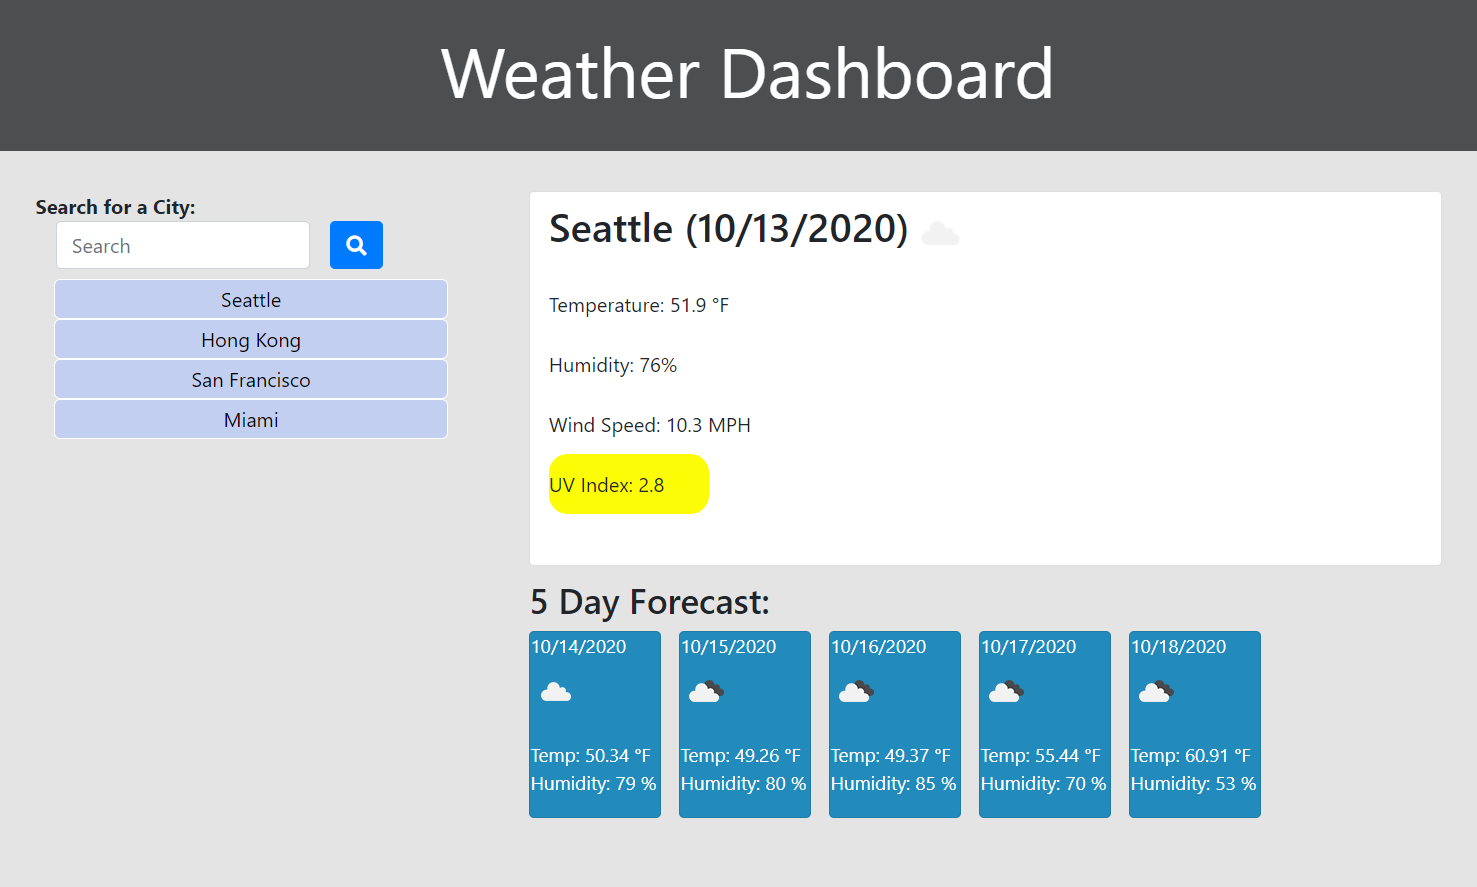
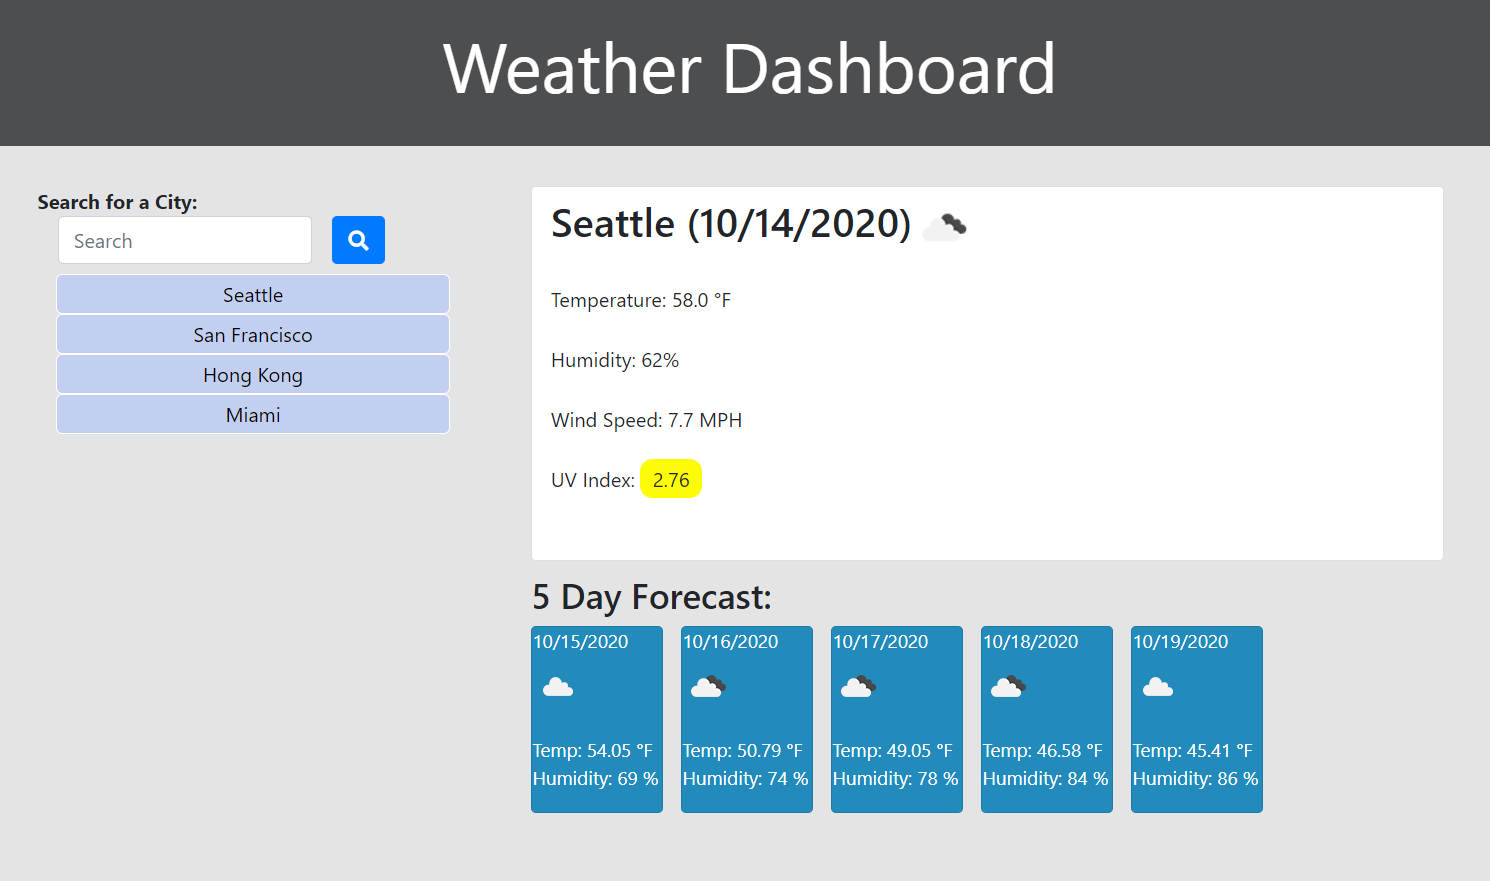
added gif and edited screenshot, updated README

diff --git a/README.md b/README.md
@@ -20,7 +20,7 @@ Keep track of the weather forecast using this Weather Dashboard!
 
 ## Usage
 
-
+You can use this weather dashboard to find out the current weather along with the 5 day forecast of your favorite cities! And your searches are saved allowing you to keep track throughout the year.
 
 ## Languages and Concepts
 - HTML
@@ -32,16 +32,41 @@ Keep track of the weather forecast using this Weather Dashboard!
 
 ## Method
 
+To begin this project, I reviewed what the user was wanting to access with this website. Then I decided what was needed to get started and work my way through each step of development.
 
+1. First I established my HTML, JavaScript and CSS pages, added links to Bootstrap and jQuery and the links to connect the pages. Then I started the development process by creating my base layer on the HTML page, by creating the jumbotron and getting the grid established with rows and columns. I then added in the search field form and a card to hold the main content.
 
+1. Next I added code to the main tag with the card class to hold the current city when retrieved. I added \<div>'s with class names to hold of the needed search results: city, temperature, humidity, wind and UV index. Then I created the initial .ajax() call to the OpenWeatherMap API and set it to the text of the main card.
+
+1. Looking over my code so far, I decide that instead of having everything within the .on("click") function, I should create separate functions to hold my .ajax() calls and then I can call those functions within the click handler. This would give the function more versatility and make it easier to call if needed in other click handlers. So I separated my .ajax() call and set the texts and created \<div>'s of the searched city names. Then I started on the click handler for when a city name is entered and the search button is clicked, then putting the name into the \<div> in the city tiles.
+
+1. Next I wanted to start to refine my information that I just received to establish more of my main card. I added in the current date to the main card using moment.js. Then I converted the wind speed into MPH and added some styling.
+
+1. Then I moved down to creating the 5 day forecast and began the initial .ajax() call. I added height to the main card so it was fixed and then added styling to the forecast class to create cards. I added the heading and assigned id's for the forecast. Then to add in the information, I made a for loop to make 5 boxes with the date (using moment.js), icon, temperature and humidity received from the API call.
+
+1. Next I worked on getting more of the framework established and the correct information showing. I adjusted the spacing of the forecast, removed the card class for the main weather display from the HTML so it would appear when information is populated. Then I changed the city tiles into buttons and converted the temperature from Kelvin into Fahrenheit. Then I established the localStorage. I created an array to hold the cities as they are searched and added an id of the city name to the respective city tile.
+
+1. Next to give the city tiles functionality, I added a click handler to the city tile buttons to run the functions again based off the buttons id. And I added an if statement to pull from localStorage and create new buttons on the city tile column so the information persists.
+
+1. Then in order to keep the last search results populated on the page, I created a new localStorage item to hold the most recent searched city and to display that city's weather upon refresh.
+
+1. The next piece of information I needed to populate is the UV Index which is found under a different API call. I added a function to find the UV index of the user input by using that initial call to find the latitude and longitude of the input city and putting that information into a new API call. I then set this information to display on the main card.
+
+1. Now that the basic functionality was there, I added the weather icons to the current weather and forecast card by using another API call. I then adjusted the size of the icons for the forecast in the CSS file because they came out squished.
+
+1. The next step was to color code the UV Index depending on the rating. I added an if else statement to determine the level of UV Index and to add the associated class (which would change the background color and font color if needed). I added the degree symbol to the temperature and made more styling adjustments to the city tile buttons and the jumbotron.
+
+1. Now that my page was working, I deployed it on GitHub pages and found I was getting an error that, in short, it was making an insecure XML request. After some research, I found that the API call was set to http and it needed to be https. After making that adjustment, *that* error went away.
+
+1. Then I added a span to the UV Index to make the background color apply to just the numbers intead of the whole line. Now on the deployed page, I was getting a new error. Again saying that it was making an insecure request, this time regarding the icons. After inspecting the code, I found that the icon API call was also set to http. So I changed it to https and the error cleared! Now it's ready.
 
 ## Demo
 
-<!-- ![Demo](assets/weather_demo.gif) -->
+![Demo](assets/weather_demo.gif)
 
 ## Roadmap
 
-
+To further this project, I would like to add a delete button to each city so the user can edit their selections. I would also like to create an error code if the user enters in a city that cannot be found with this API or it isn't a city. To advance it beyond that, I would like to add a different API so users can better specifiy the location by also using the state and/or country or by using the zip code and incorporating an overview map of the area's weather.
 
 ## Links
 
